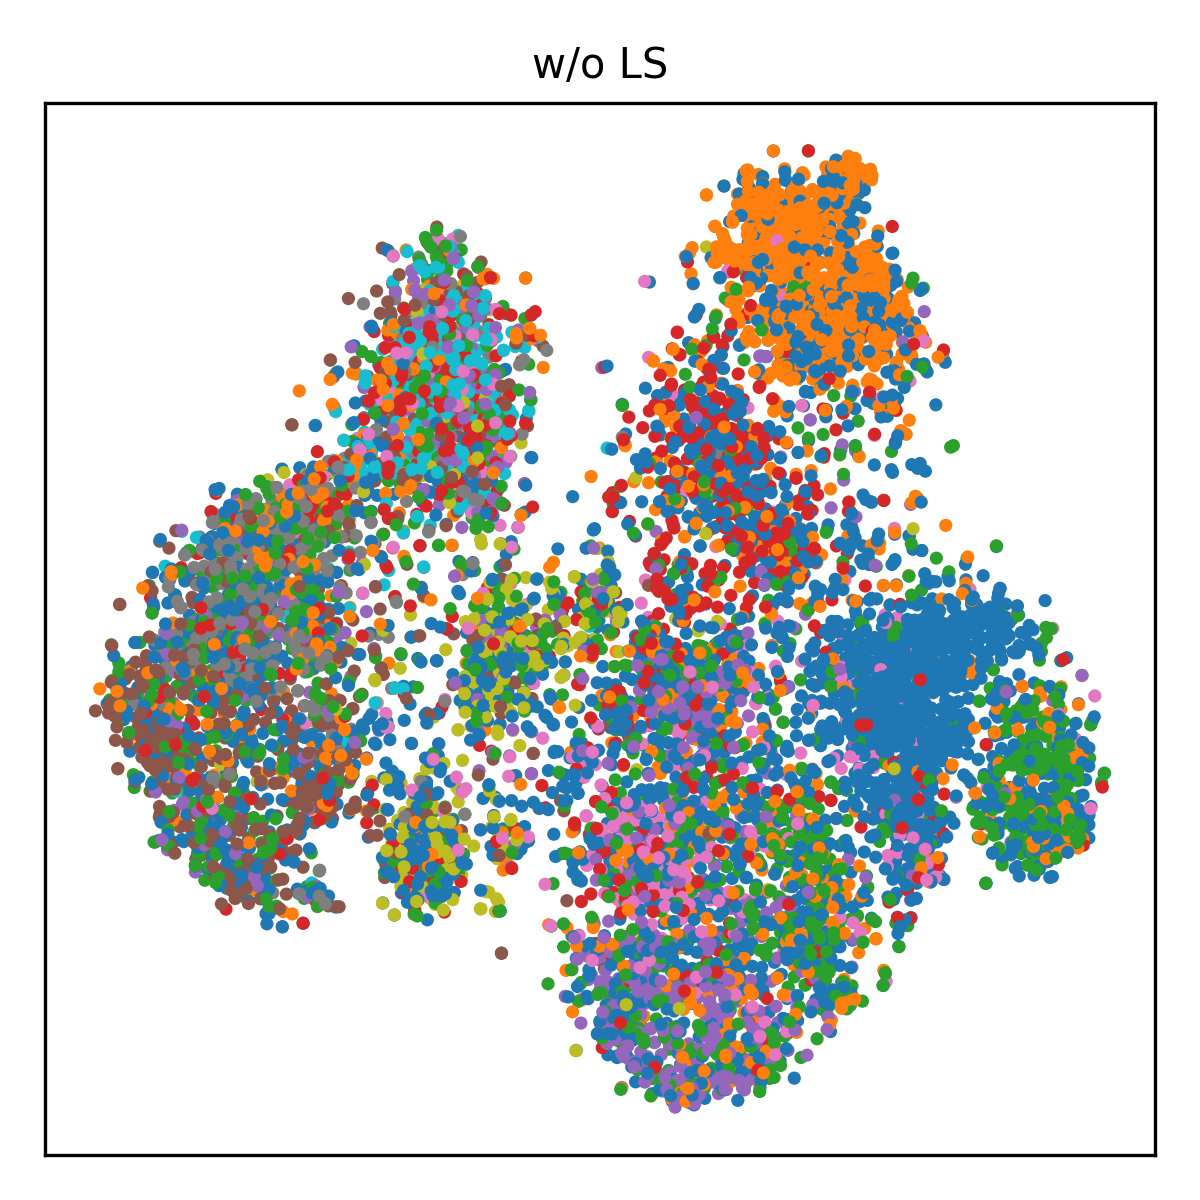
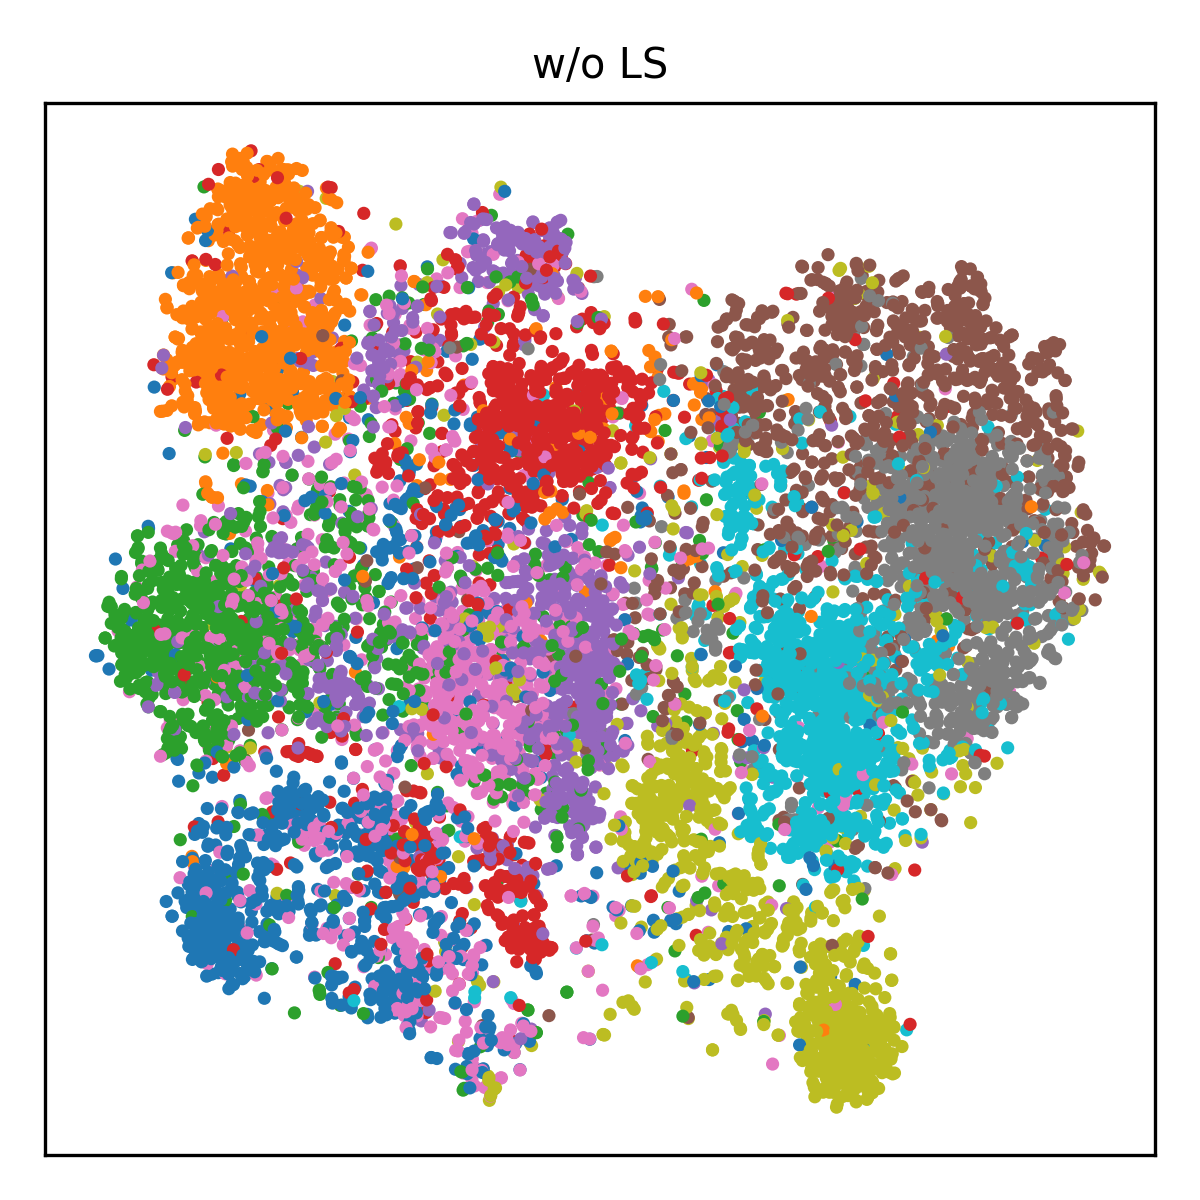
bug fixes

diff --git a/codes/main.py b/codes/main.py
@@ -2,7 +2,7 @@
 Author: Jedidiah-Zhang yanzhe_zhang@protonmail.com
 Date: 2025-05-06 16:42:21
 LastEditors: Jedidiah-Zhang yanzhe_zhang@protonmail.com
-LastEditTime: 2025-05-10 21:24:40
+LastEditTime: 2025-05-10 21:56:35
 FilePath: /LS-PLL-Reproduction/codes/main.py
 Description: Main script containing the complete pipeline for training and evaluating models with partial labels.
 '''
@@ -65,10 +65,9 @@ EXPERIMENTS = [
 
 def main():
     for exp in EXPERIMENTS: # for each models and relative datasets
-        models = {}
-        records = {}
-        figure_paths = []
-        titles = []
+        models, records = {}, {}
+        figure_paths, titles = [], []
+        print()
 
         # load dataset
         trainset, testset = load_dataset(exp['Dataset'], dataset_path=DATASET_PATH)
@@ -79,10 +78,8 @@ def main():
             true_labels_train = np.array(trainset.targets)
             true_labels_test = np.array(testset.targets)
 
-        print()
         for avgCL in exp['AvgCL']: # for each noise levels
-            models[avgCL] = []
-            records[avgCL] = []
+            models[avgCL], records[avgCL] = [], []
 
             # train model for generating datasets if model file not exist, or load model if exists
             dataset_model_path = f"{MODEL_PATH}/PL_{exp['Dataset']}_{exp['Model'].name}.pth"
@@ -123,10 +120,10 @@ def main():
             # using nn.CrossEntropy() as default.
             model_path = MODEL_PATH + f"/{exp['Model'].name}/avgcl{avgCL}"
             if not os.path.exists(model_path): os.makedirs(model_path)
-            trainset = PartialLabelDataset(trainset, partial_labels_train, transform=transforms.ToTensor())
-            testset = PartialLabelDataset(testset, partial_labels_test, transform=transforms.ToTensor())
+            train_set = PartialLabelDataset(trainset, partial_labels_train, transform=transforms.ToTensor())
+            test_set = PartialLabelDataset(testset, partial_labels_test, transform=transforms.ToTensor())
             print(f"**** Training {exp['Model'].name} on partial labelled {exp['Dataset']} with Avg.#CL={avgCL} and no label smoothing ****")
-            non_smoothing_model, non_smoothing_record = train_model(exp['Model'], trainset, testset, 
+            non_smoothing_model, non_smoothing_record = train_model(exp['Model'], train_set, test_set, 
                                                                     num_epochs=EPOCHS, batch_size=BATCH_SIZE, 
                                                                     lr=LEARNING_RATE, momentum=MOMENTUM,
                                                                     num_classes=exp['NumClasses'], label_format='multihot')
@@ -145,7 +142,7 @@ def main():
             # train models with label smoothing across different noise levels
             for r in SMOOTHING_RATE:
                 print(f"\n**** Training {exp['Model'].name} on partial labelled {exp['Dataset']} with Avg.#CL={avgCL} and a smoothing rate of {r} ****")
-                model, record = train_model(exp['Model'], trainset, testset, 
+                model, record = train_model(exp['Model'], train_set, test_set, 
                             num_epochs=EPOCHS, batch_size=BATCH_SIZE, 
                             lr=LEARNING_RATE, momentum=MOMENTUM, 
                             num_classes=exp['NumClasses'],
@@ -164,7 +161,7 @@ def main():
                 print(f"**** TSNE plot saved to {figure_path} ****")
 
             # save records into the models folder
-            with open(model_path+'/records.pkl') as f:
+            with open(model_path+'/records.pkl', 'wb') as f:
                 pickle.dump(records, f)
 
         # plot grid

diff --git a/codes/utils.py b/codes/utils.py
@@ -2,7 +2,7 @@
 Author: Jedidiah-Zhang yanzhe_zhang@protonmail.com
 Date: 2025-05-09 18:08:41
 LastEditors: Jedidiah-Zhang yanzhe_zhang@protonmail.com
-LastEditTime: 2025-05-10 21:19:47
+LastEditTime: 2025-05-10 21:47:00
 FilePath: /LS-PLL-Reproduction/codes/utils.py
 Description: Utils used not related to the experiments
 '''
@@ -41,7 +41,7 @@ def extract_features(model, dataset, batch_size=128):
 
 
 def tsne_plot(features, labels, title, save_path):
-    tsne = TSNE(n_components=2, perplexity=10, max_iter=3000, random_state=seed)
+    tsne = TSNE(n_components=2, perplexity=30, max_iter=3000, random_state=seed)
     reduced = tsne.fit_transform(features)
     plt.figure(figsize=(4, 4))
     sns.scatterplot(x=reduced[:,0], y=reduced[:,1], hue=labels, palette='tab10', s=10, linewidth=0)
